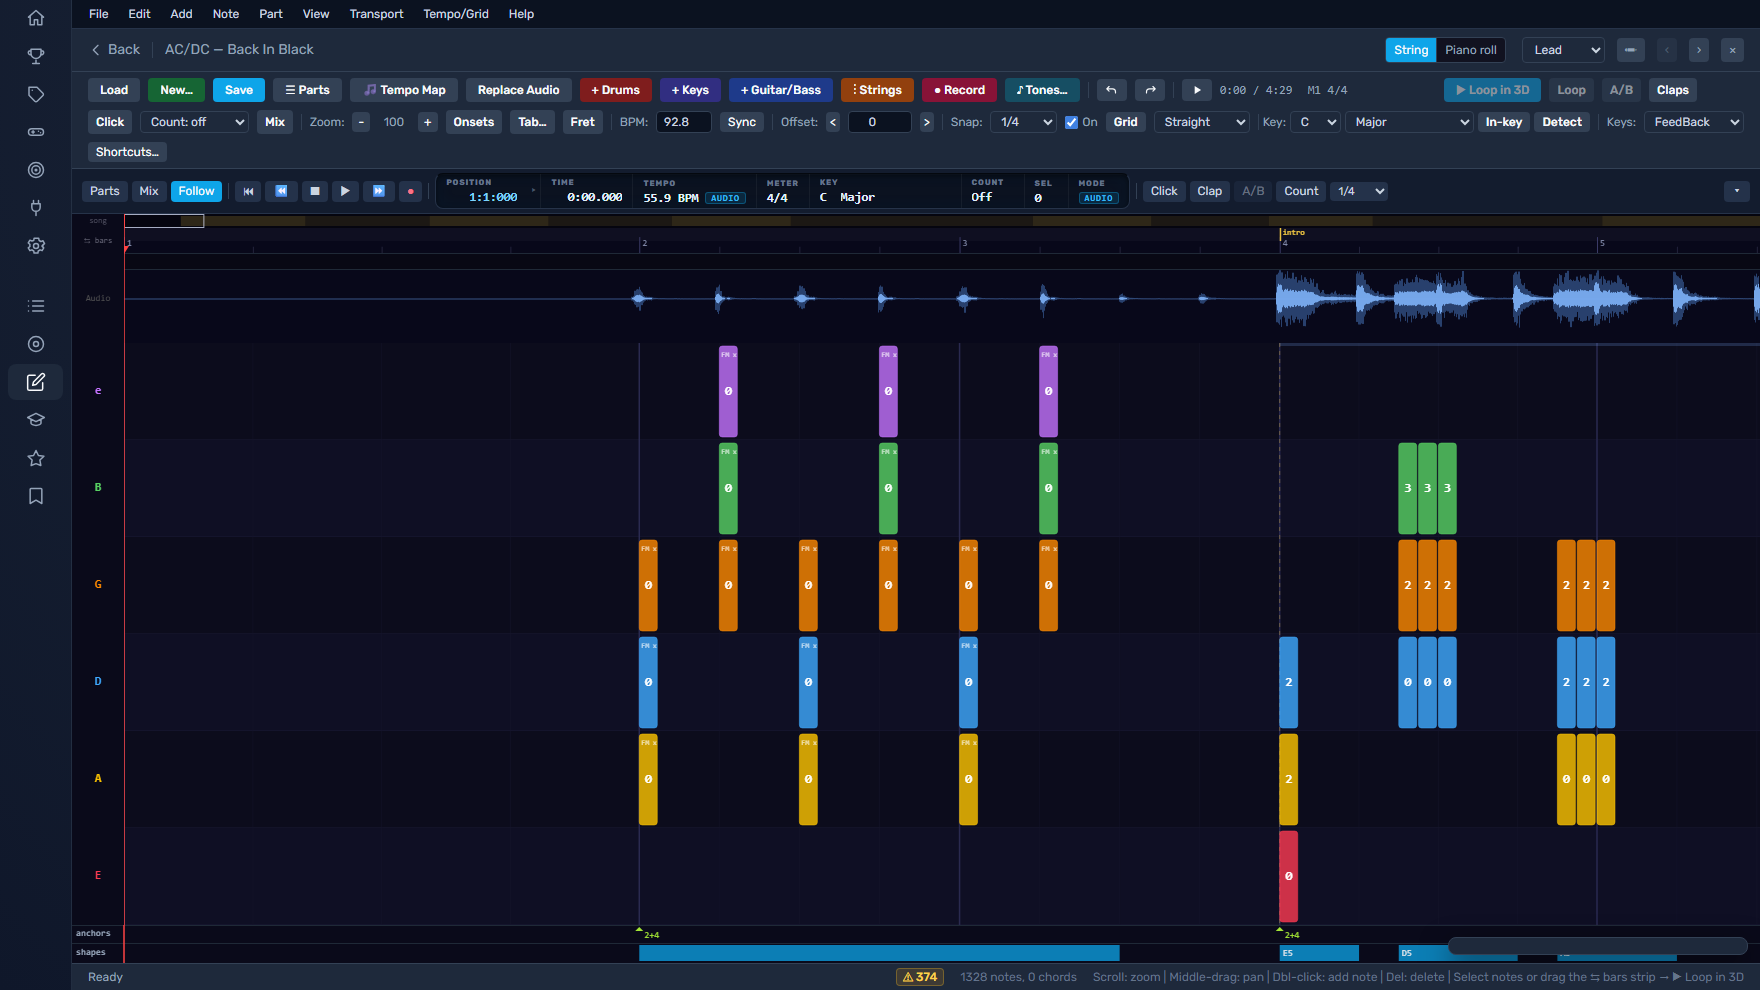
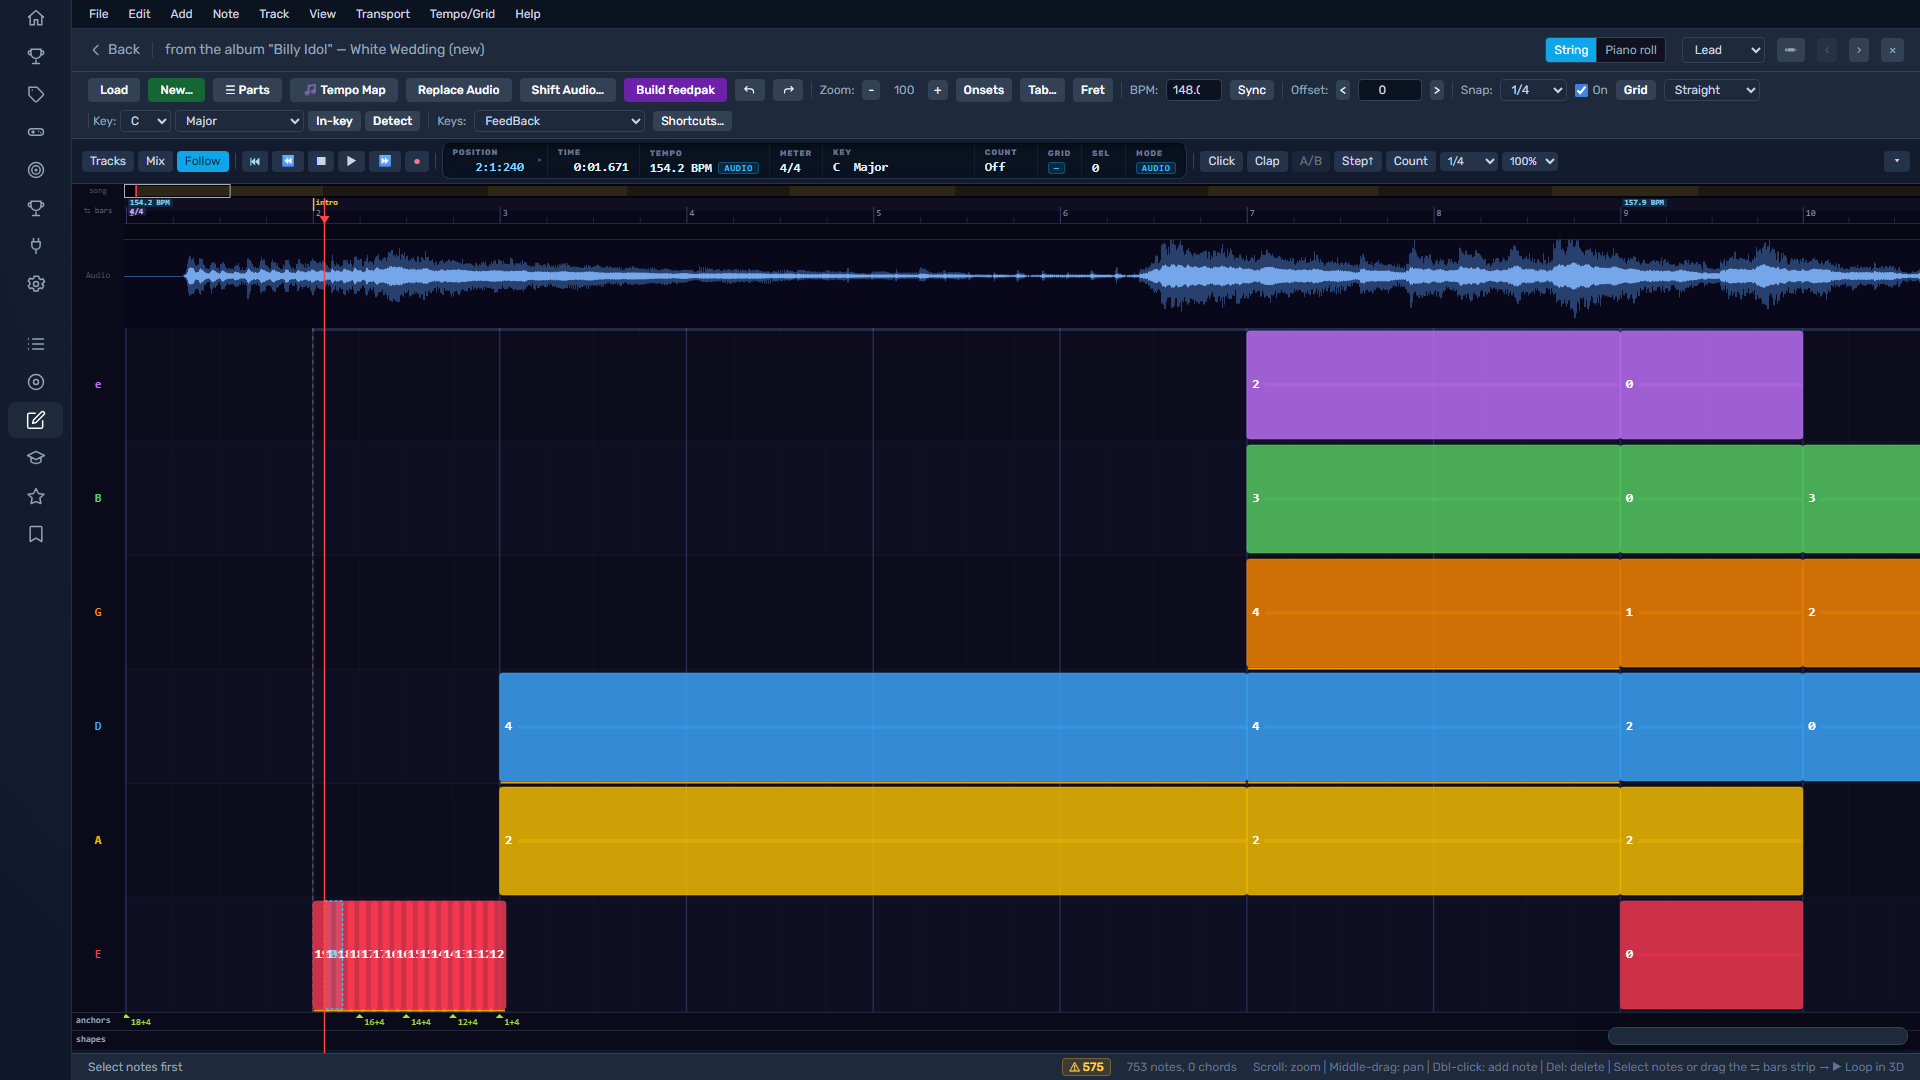
docs: the guide walks the whole feedpak journey — fresh screenshots, README landing page
Help ▸ User Guide restructured around the start-to-finish story:

- A six-step journey map up top (start → grid → notes → tracks → hear it
  → save/build), each step pointing at its section.
- §1 "Start a project" now showcases EVERY on-ramp: the start landing
  (Load vs Create New), all audio formats + YouTube, GP3-GP8 / MIDI /
  arrangement XML / feedpak-archive imports, audio+chart auto-sync (the
  recommended start), blank-canvas + arrangement chips, and the
  after-creation doors — File ▸ Import, Add ▸ Drums / Record MIDI,
  MusicXML keys (with authored hands), the stem manager, GoPlayAlong.
  Plus the MusicBrainz metadata helpers.
- §9 becomes "Save and build — the finish line": first-save picker,
  Build feedpak, what the pack carries, and a four-point pre-flight
  checklist.
- §10 shortcut table: the stale `T = Tempo Map` row corrected to the
  tool palette (`T,T` = Tempo Map).
- Fresh screenshots captured from current main against a real project
  (a stem + Guitar Pro import, per-bar audio sync): landing.png (new),
  import.png, workspace.png, notes.png. tempomap.png / drums.png kept
  (those views are unchanged).

README rewritten as the repo landing page: hero screenshot, User Guide
link before the contributor content, and a "What it does" that matches
what actually shipped (start-from-anything + auto-sync, tool palette +
profiles, track sessions + stems + the mixer console with unity+10 dB
faders, keys hands, canvas appearance). Architecture/testing sections
[…]

diff --git a/docs/USER-GUIDE.md b/docs/USER-GUIDE.md
@@ -15,35 +15,68 @@ profiles in **Help ▸ Shortcut profile** or the shortcut panel (`?`).
 
 ![The Song Editor loaded with a song: the menu bar and toolbars up top, the timeline (waveform and colored note blocks per string) in the middle, the transport and inspector around it.](../assets/guide/workspace.png)
 
+**The whole journey, at a glance** — a feedpak goes from nothing to playable in
+six steps, and this guide follows them in order:
+
+1. **Start** (§1) — create a project from a recording, an existing chart, or both.
+2. **Line up the grid** (§6) — the tempo map fits bars and beats to the recording.
+3. **Chart the notes** (§4) — place, edit, and mark up every note and technique.
+4. **Build out the tracks** (§5, §7) — more parts, keys with hands, drums, studio stems.
+5. **Hear it** (§3) — guide claps, the metronome, loops, and the mixer console.
+6. **Save and build** (§9) — `Ctrl+S` while you work; **Build** writes the `.feedpak`.
+
 ---
 
 ## 1. Start a project
 
-You begin one of two ways:
+Opening the editor with nothing loaded lands you at the front door:
 
-- **From a recording** — open the editor, load an audio file, and you get an
-  empty timeline over the waveform. Set the tempo grid (Section 6) and start
-  placing notes.
-- **From an import** — bring in an existing chart and edit it. The editor reads
-  **Guitar Pro** (GP3–GP8), **MIDI** (with its tempo map), community
-  **arrangement XML**, **GoPlayAlong** sync sidecars, and existing
-  **`.feedpak`** / archive files. Every format normalizes into the same internal
-  model, so editing works the same regardless of where a chart came from.
+![The Song Editor start screen: Load an existing feedpak to edit, or Create New.](../assets/guide/landing.png)
 
-In **New…**, use **Add File** for audio, Guitar Pro, MIDI, or XML. Every audio
-source and every chart track appears in one table. Check the tracks to import,
-then choose one audio row in **Guide** as the recording the tempo map
-follows. You can add several audio files; they remain separate source tracks.
-The YouTube field adds another possible audio source.
+**Load…** opens a feedpak from your library to edit. **Create New** starts a
+project — and it takes almost anything as a starting point:
 
-![The Create New Arrangement dialog: add session files, review every imported track in one table, and choose a Guide audio source.](../assets/guide/import.png)
+- **A recording** — drop in an audio file (**MP3, WAV, FLAC, OGG, M4A, OPUS,
+  AAC, WEM**) or paste a **YouTube URL**. You get a timeline over the
+  waveform: set the grid (§6) and chart from scratch.
+- **An existing chart** — **Guitar Pro (GP3–GP8)**, **MIDI** (its tempo map
+  comes along), community **arrangement XML**, or an existing
+  **`.feedpak`/archive**. Every format normalizes into one internal model, so
+  editing works the same wherever the chart came from.
+- **Both at once** — the recommended start. Add one audio file *and* a chart
+  file; **auto-sync** then lines the imported chart up to the recording bar
+  by bar, so you begin from a chart that already follows the take instead of
+  a straight metronomic grid.
+- **Nothing at all** — pick your arrangements from the chips (Lead / Rhythm /
+  Bass / Keys / Drums…) and start with an empty timeline.
 
-Import lives under the **File** menu (Import ▸ …). MIDI and XML/GP imports keep
-their note data; a GoPlayAlong sidecar brings bar→time sync points only (no
-notes) — useful for lining a grid up fast.
+Everything you add lands in one table: every audio source and every track
+inside every chart file, each with its instrument and note count. Check the
+tracks you want as arrangements, and pick one audio row as the **Guide** —
+the recording the tempo map follows. Extra audio files stay available as
+separate source tracks.
+
+![The Create New Arrangement dialog: arrangement chips, a master audio and a Guitar Pro chart staged for import, the track table, and song details auto-filled.](../assets/guide/import.png)
+
+Song details (title, artist, album, art) auto-fill from the import where they
+can — **Find cover…**, **Identify from audio…**, and **Match…** fill in the
+rest from MusicBrainz. Then hit **Create & Open in Editor**.
+
+A few sources arrive through their own doors, any time after creation:
+
+- **File ▸ Import** — bring another GP / MIDI / XML chart into the open project.
+- **Add ▸ Track** — add **Drums** (from a chart or by hand) or **Record
+  MIDI** (play a take on a connected device; it becomes a keys track).
+- **Add Keys ▸ MusicXML** — a MusicXML score imports as a keys track and
+  keeps the score's own **left/right hand** assignments (§5).
+- **Studio stems** — after creating, load per-instrument stems (vocals,
+  bass, drums…) through the stem manager (§5) for isolated listening and
+  per-stem charting.
+- A **GoPlayAlong** sidecar brings bar→time sync points only (no notes) —
+  useful for lining a grid up fast.
 
 > **Autosave is not a thing.** Nothing touches your library until you **Build**
-> (Section 10). Save early with `Ctrl+S`.
+> (§9). Save early with `Ctrl+S`.
 
 ---
 
@@ -303,13 +336,26 @@ These live in the **Add** menu (Markers) and show in the inspector when selected
 
 ---
 
-## 9. Save and build
+## 9. Save and build — the finish line
 
-- **`Ctrl+S`** saves your working session.
-- **Build** assembles the finished **`.feedpak`** through the host's core
-  libraries and writes it to your library — this is the only step that changes
-  what the rest of the app sees. Build once the grid fits, the notes are placed,
-  and playback (guide claps against the recording) sounds right.
+- **`Ctrl+S`** saves your working session. The first save of a new project
+  asks where the feedpak should live; after that it's silent.
+- **Build feedpak** (the toolbar button, or File ▸ Build feedpak) assembles
+  the finished **`.feedpak`** through the host's core libraries and writes it
+  to your library — this is the only step that changes what the rest of the
+  app sees. The pack carries everything you authored: every arrangement,
+  the tempo map, sections and phrases, techniques, keys notation with its
+  hand split, stems, tones, and art.
+
+**Ready to build?** A quick pre-flight:
+
+1. The grid follows the recording (§6) — the Map Health pill isn't complaining.
+2. Guide claps (`C`) against the recording sound tight where it matters.
+3. The lint flags you care about are addressed (they *advise*, never block).
+4. Song details are filled (title, artist, art) — they're the library card.
+
+Build again any time — rebuilding replaces the pack, and your working session
+stays editable.
 
 **Undo/redo is the safety net.** Every edit — including tempo moves, offset, and
 imports — is undoable (`Ctrl+Z` / `Ctrl+Y`). If something looks wrong, undo it.
@@ -329,7 +375,7 @@ you'll reach for constantly (FeedBack profile):
 | `F` | Edit fret | `0`–`9` | Set fret |
 | `↑` / `↓` | Move string | `Shift+↑`/`↓` | Move, keep pitch |
 | `Shift+R` | Resnap selection to grid | `Ctrl+D` | Duplicate selection |
-| `T` | Tempo Map mode | `W` | Show/hide waveform |
+| `T` | Tool palette (`T,T` = Tempo Map) | `W` | Show/hide waveform |
 | `Alt+B` | Loop A/B (audio ↔ guide) | `Shift+L` | Follow playhead |
 | `Shift+M` | Add section | `Shift+F` | Set anchor |
 

diff --git a/README.md b/README.md
@@ -1,36 +1,58 @@
 # Arrangement Editor
 
 The **Song Editor** plugin for [feedBack](https://github.com/got-feedback/feedback)
-(plugin id `editor`) — a DAW-style timeline editor for building and editing
-feedpak arrangements: import Guitar Pro tabs, MIDI, or community XML; sync a
-chart to a recording; author and tune every note; and build the result back
-into a `.feedpak` package the rest of the ecosystem plays.
+(plugin id `editor`) — a DAW-style timeline editor that turns a recording into
+a playable feedBack chart: import a tab or start from audio, line the grid up
+to the take, author every note, and build a `.feedpak` the whole ecosystem
+plays.
+
+![The Song Editor: waveform, beat grid, and a synced Guitar Pro chart on the string lanes.](assets/guide/workspace.png)
+
+**New here?** The **[User Guide](docs/USER-GUIDE.md)** (also in-app under
+Help ▸ User Guide) walks the whole journey — create a project from a
+recording, a chart, or both; fit the tempo map; chart the notes; add tracks,
+stems, and drums; mix; and build the finished feedpak.
 
 It is the largest plugin in the ecosystem. If you are here to work on it,
 read this top-to-bottom once — the architecture section saves real time.
 
 ## What it does
 
-- **Import** — Guitar Pro (GP3–GP8), MIDI (with tempo-map import), community
-  arrangement XML, MusicXML-adjacent sources, GoPlayAlong sync sidecars, and
-  existing `.feedpak`/archive files, all normalized into one internal model.
-- **Edit** — a canvas timeline with per-part views: String view (lanes per
-  string), a piano roll (with resolver-assisted fretted authoring), a drum
-  piece-lane grid, and a read-only engraved tab preview. Undo/redo is the
-  edit contract: every mutation is a command with exec/rollback.
+- **Start from anything** — audio (MP3/WAV/FLAC/OGG/M4A/OPUS/AAC/WEM, or a
+  YouTube URL), Guitar Pro (GP3–GP8), MIDI (tempo map included), community
+  arrangement XML, MusicXML keys scores, GoPlayAlong sync sidecars, existing
+  `.feedpak`/archive files — or a blank timeline. Audio + chart together get
+  **auto-sync**: the imported chart lines up to the recording bar by bar.
+- **Edit like a DAW** — a canvas timeline with per-part views: String view
+  (lanes per string), a piano roll (with resolver-assisted fretted
+  authoring), a drum piece-lane grid, and a live engraved tab/score view.
+  A Logic-style **tool palette** (`T`: pointer, pencil/draw, eraser, marquee,
+  mute, scissors), four **shortcut profiles** (FeedBack / Logical / Cableton /
+  Legacy-EOF), a searchable command palette (`Ctrl+K`), and a customizable
+  canvas (grid strength, brightness, hue). Undo/redo is the edit contract:
+  every mutation is a command with exec/rollback.
 - **Time** — a beat-primary tempo map (`beatOf`/`timeOf` over one anchor
   set): Tempo Map mode fits the grid to a recording (sync points, tap tempo,
-  metric modulation, beat-lock), snap rides the same converter (grid, onset,
-  swing), and loop regions/bookmarks/count-in ride the transport.
-  The authoritative musical ruler fits bars and beats to fixed source audio;
-  authored musical content aligns through that ruler. See
+  metric modulation, beat-lock, assisted mapping, Map Health), snap rides the
+  same converter (grid, onset, swing), and loop regions/bookmarks/count-in
+  ride the transport. The authoritative musical ruler fits bars and beats to
+  fixed source audio; authored musical content aligns through that ruler. See
   [`docs/TEMPO-MAPPING-DESIGN.md`](docs/TEMPO-MAPPING-DESIGN.md) for the four
   timing domains, marker model, assisted mapping, and audition-speed rules.
-- **Companion strips** — a fretboard strip for fretted parts (candidate
-  positions from the suggest-position resolver, click to assign) and a drum
-  kit / pad strip for drum parts (GM-mapped, MIDI-monitor capable).
-- **Advisory lints** — drum limb feasibility and fretted playability checks
-  that name physical questions without ever blocking or auto-fixing.
+- **Tracks, stems, and the mixer** — tracks are first-class objects in a
+  persistent track column: rename, reorder, fold into folders, pair a
+  transcription with the studio stem it was charted against. Load
+  per-instrument **stems** and chart against any of them in isolation. The
+  **mixer console** (`Shift+C`) is vertical channel strips with live meters
+  over SOURCE/GUIDE/CLICK buses and a MASTER output — every fader unity with
+  +10 dB of headroom.
+- **Keys with hands** — MusicXML imports keep the score's left/right hand
+  split; hands are authorable per note or stamped by split point, shaded on
+  the roll, and drive the grand-staff notation's hand split.
+- **Companion strips & lints** — a fretboard strip for fretted parts
+  (candidate positions from the suggest-position resolver, click to assign),
+  a drum kit / pad strip (GM-mapped, MIDI-monitor capable), and advisory
+  playability/limb lints that name physical questions without ever blocking.
 - **Build** — assembles the finished `.feedpak` through the host's core
   libraries, so output packages are compatible everywhere.
 

diff --git a/CHANGELOG.md b/CHANGELOG.md
@@ -7,6 +7,20 @@ and this project adheres to [Semantic Versioning](https://semver.org/spec/v2.0.0
 
 ## [Unreleased]
 
+### Changed
+
+- **Docs refresh — the guide walks the whole journey.** The User Guide
+  (Help ▸ User Guide) opens with a six-step journey map, and §1 now showcases
+  every way to start a feedpak (audio formats + YouTube, GP/MIDI/XML,
+  MusicXML keys, stems, blank + arrangement chips, GoPlayAlong) through to a
+  pre-flight-checklisted §9 Save & Build. Fresh screenshots captured from
+  current main (start landing, the create dialog with a real audio+chart
+  import staged, the synced workspace, note editing); the `T` shortcut row
+  corrected to the tool palette (`T,T` = Tempo Map). README rewritten as the
+  repo landing page: hero shot, User Guide link up top, and a feature list
+  matching what shipped (track sessions + mixer console, click tools, keys
+  hands, canvas appearance, stems).
+
 ### Added
 - **The master mix is a channel strip in the mixer.** Every audio source now has
   a vertical strip in the mixer drawer — the master mix leads the audio band